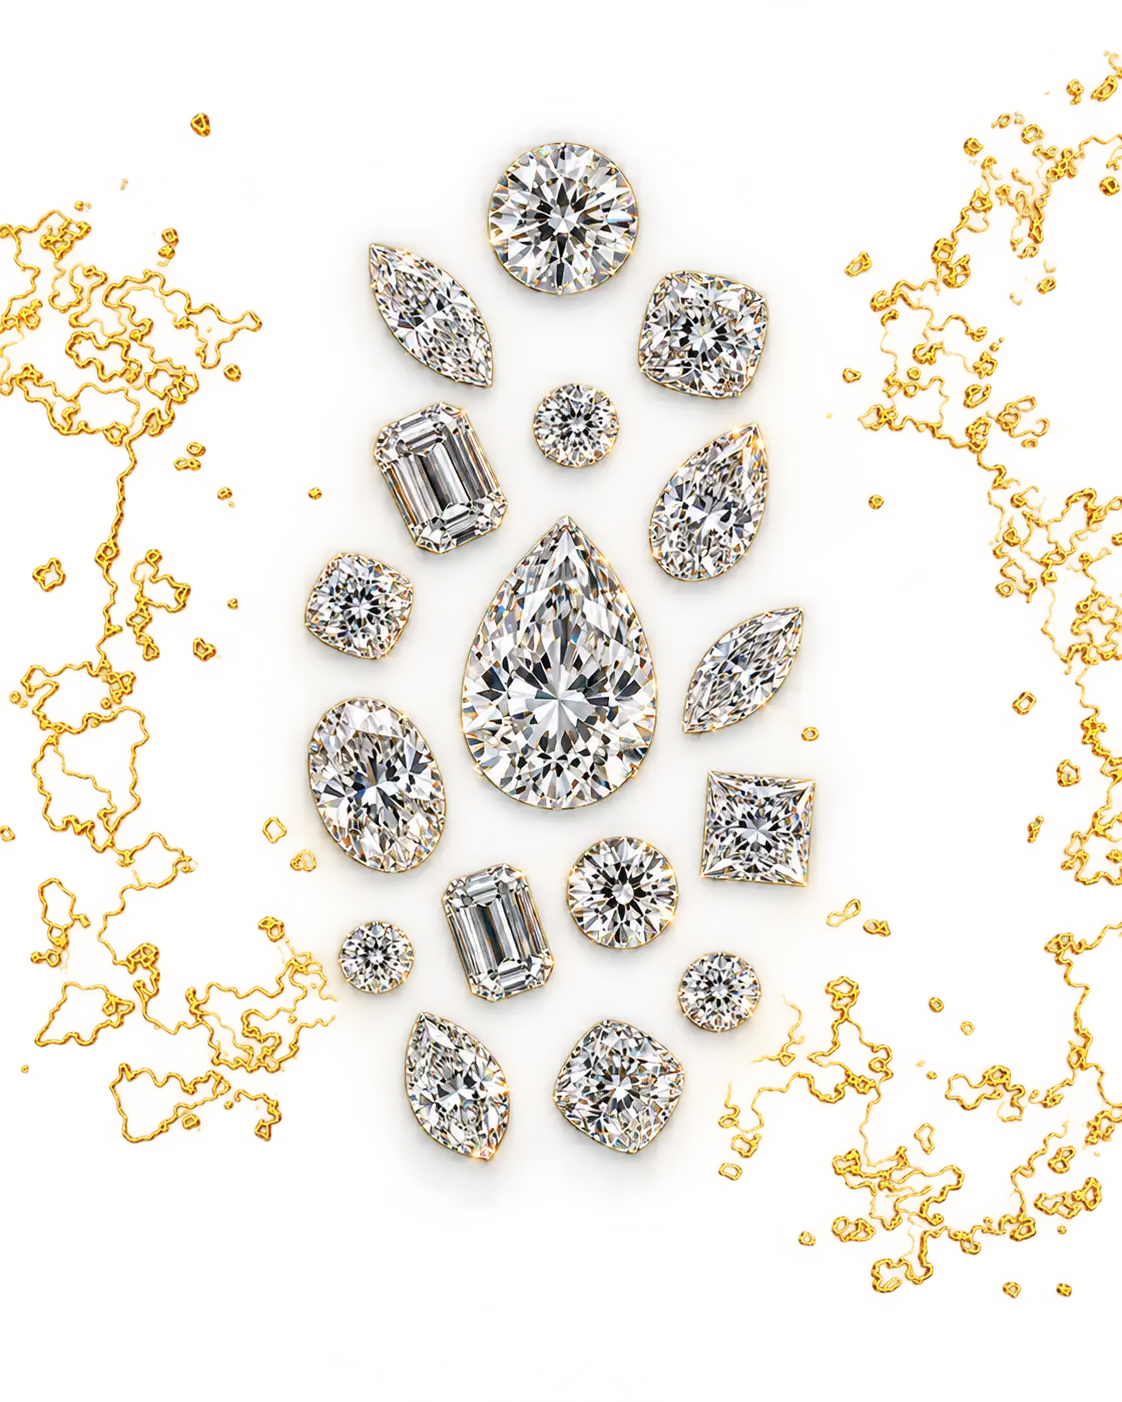
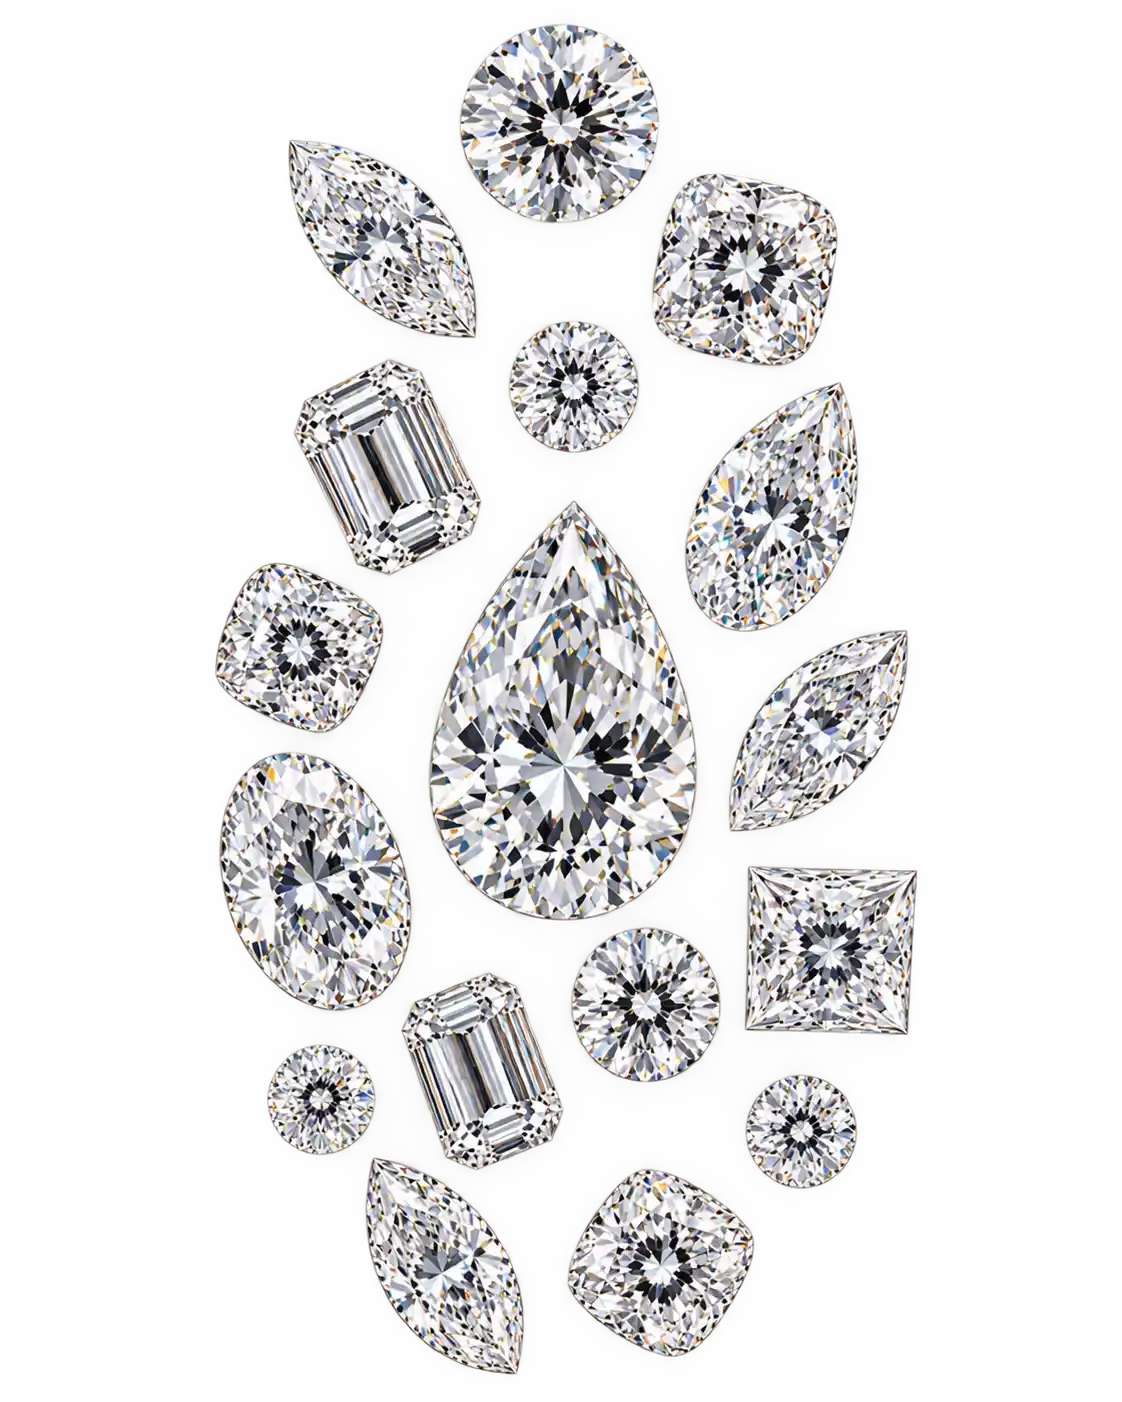
Make hero sparkle visible behind the diamond image
The existing sparkle decoration only covered the left/text side of the
Hero section, leaving the diamond image on the right with a plain
background. Added a second, larger sparkle layer centered behind the
image so it forms a visible gold halo extending past its edges.

diff --git a/src/components/Hero.tsx b/src/components/Hero.tsx
@@ -2,6 +2,7 @@ import Image from "next/image";
 import Link from "next/link";
 import heroImage from "../../public/images/hero-section-image.webp";
 import heroContentSide from "../../public/images/hero-content-side.png";
+import sectionVector from "../../public/images/section-vector.png";
 
 const CHIPS = ["Platinum", "Diamonds", "Precious Gem Stones & Jewellery", "Luxury Watches"];
 
@@ -67,6 +68,12 @@ export default function Hero() {
           </div>
 
           <div className="relative z-10 mx-auto w-full max-w-md lg:max-w-lg">
+            <Image
+              src={sectionVector}
+              alt=""
+              aria-hidden
+              className="pointer-events-none absolute top-1/2 left-1/2 -z-10 w-350 max-w-none -translate-x-1/2 -translate-y-1/2 rotate-6 opacity-100 select-none lg:w-425"
+            />
             <Image
               src={heroImage}
               alt="A curated arrangement of certified diamonds"
